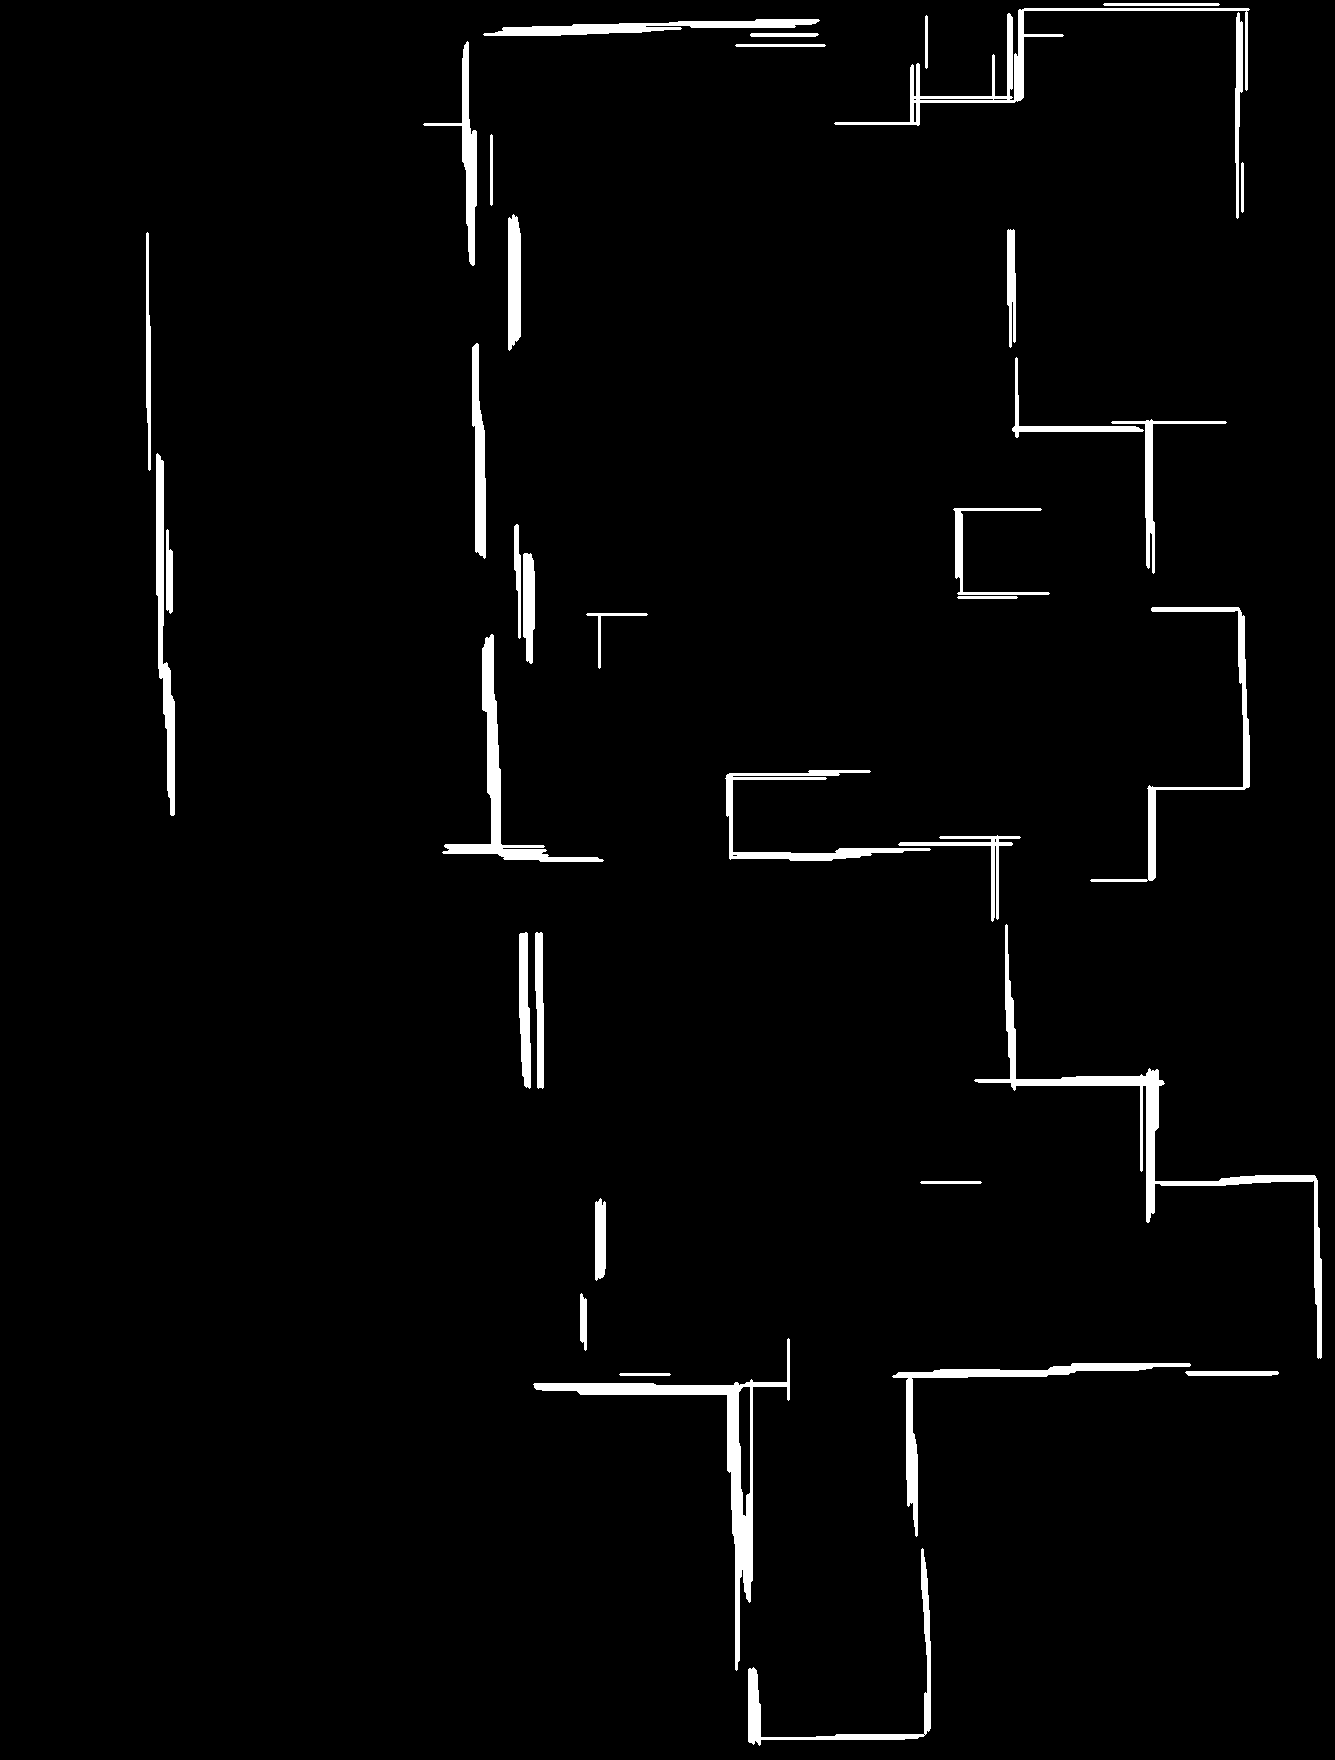
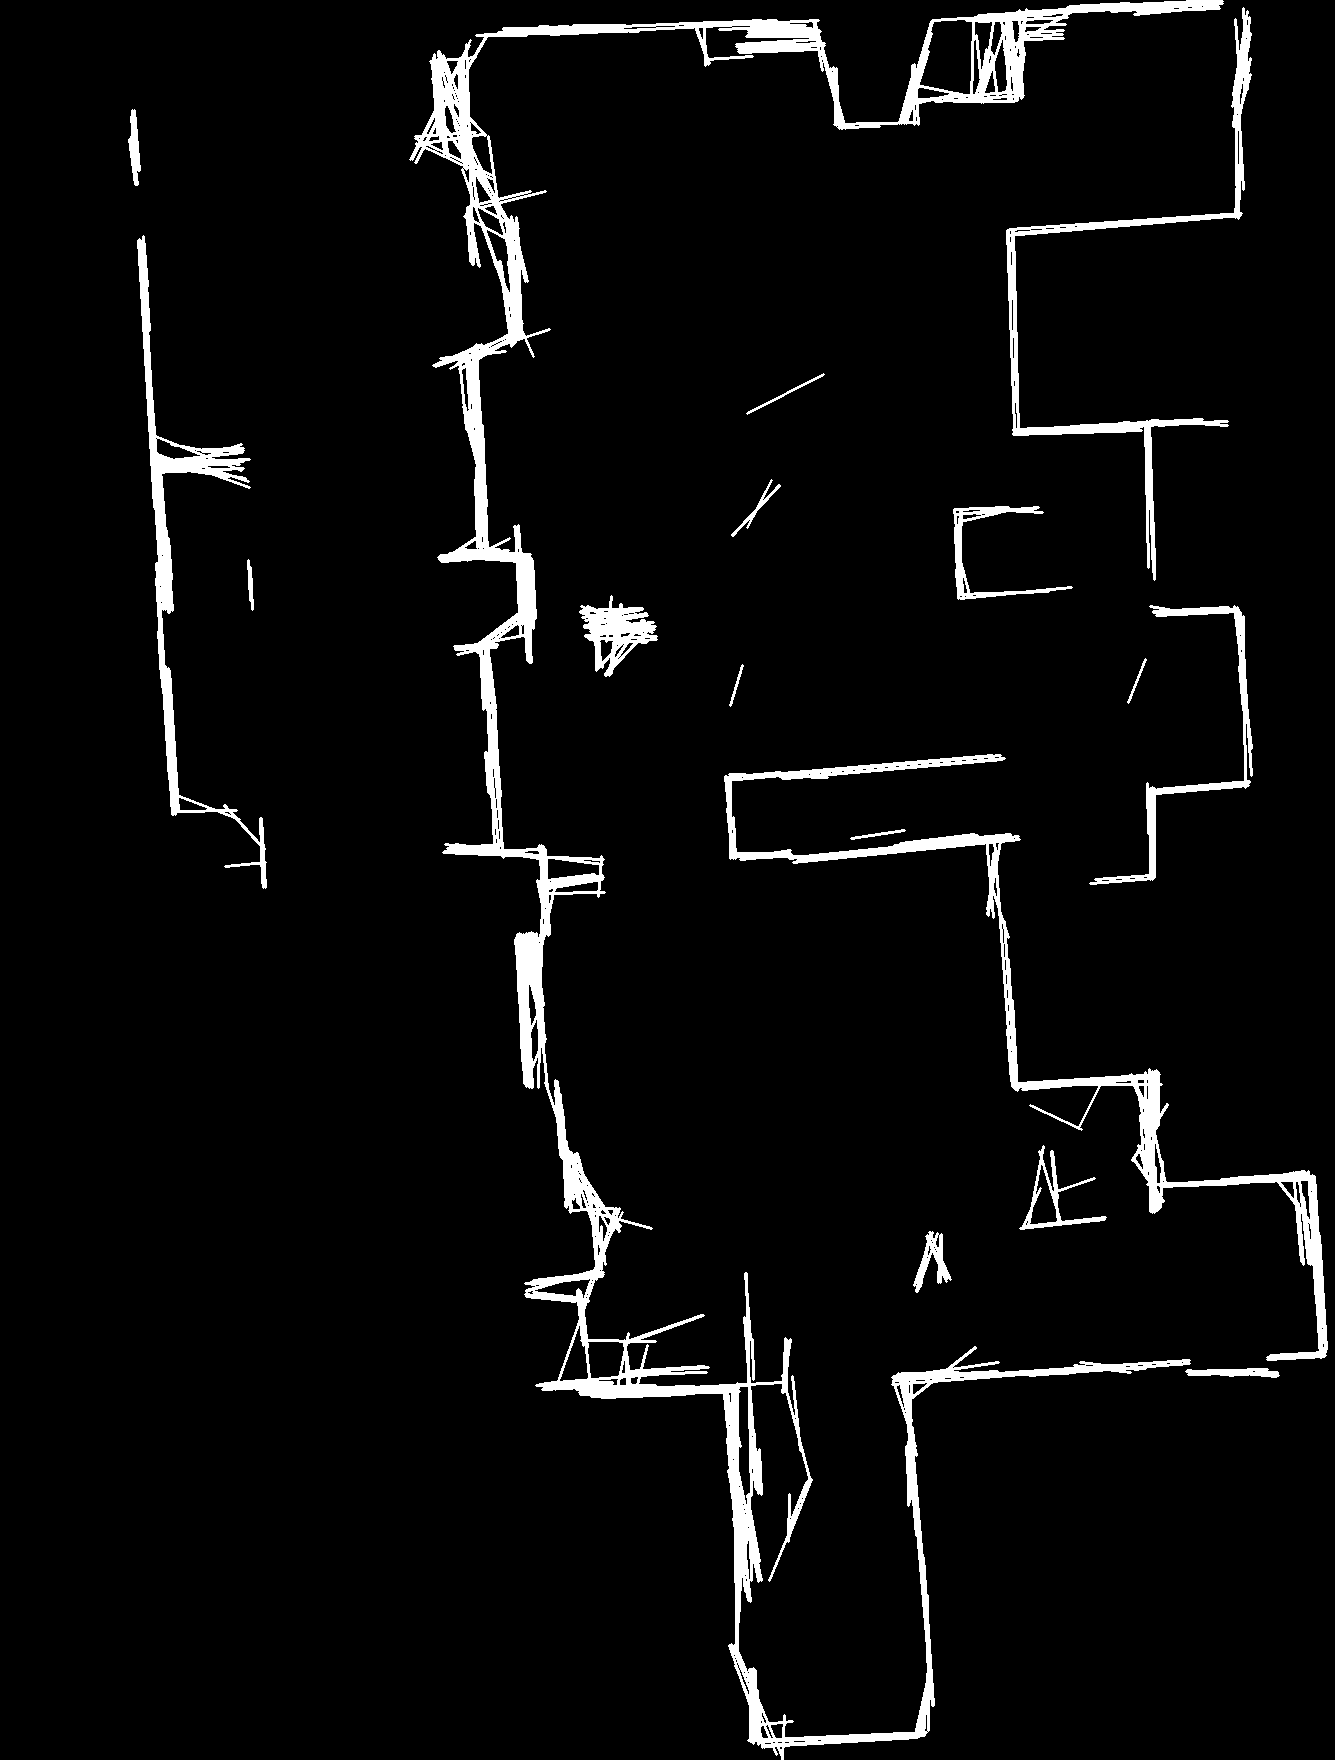
error correction and improvement in main.py

diff --git a/main.py b/main.py
@@ -3,6 +3,7 @@ from src.utils import *
 from src.post_proc_slam import FloorPlanProcessor as SLAM
 import argparse
 import os
+import sys
 
 def parse_arguments():
     parser = argparse.ArgumentParser(description='Post-process SLAM output')
@@ -11,7 +12,7 @@ def parse_arguments():
     parser.add_argument('--output_dir', type=str, required=True, help='Path to the output directory')
     parser.add_argument('--output_format', type=str, choices=['png', 'jpg'], required=True, help='Output image format (png, jpg)')
     parser.add_argument('--vector_format', type=str, choices=['yes', 'no'], required=True, help='Generate vector format (yes/no)')
-    parser.add_argument('--vector_choice', type=str, choices=['svg', 'json', 'dxf'], help='Choice of vector format (svg, json, dxf)')
+    parser.add_argument('--vector_choice', type=str, choices=['svg', 'json', 'dxf'], help='Choice of vector format (svg, json, dxf)', required='--vector_format' in sys.argv and 'yes' in sys.argv)
     return parser.parse_args()
 
 
@@ -36,7 +37,7 @@ def main():
         )
 
         edges = slam.detect_edges(binary_image)
-        lines = slam.detect_lines(edges, metadata['resolution'])
+        lines = slam.detect_lines(edges)
         
         floor_plan = slam.draw_floor_plan(lines, image)
         

diff --git a/src/post_proc_slam.py b/src/post_proc_slam.py
@@ -9,7 +9,7 @@ class FloorPlanProcessor:
     def __init__(self):
         pass
 
-    def detect_edges(self, binary_image, low_threshold=100, high_threshold=200):
+    def detect_edges(self, binary_image, low_threshold=50, high_threshold=150):
         """Detects the edges in the images using the Canny edge detector.
 
         Args:

diff --git a/README.md b/README.md
@@ -61,6 +61,7 @@ pip install -r requirements.txt
                             --output_dir <output_directory> \
                             --output_format <png|jpg> \
                             --vector_format <yes|no> \
+                        <!-- Note: The `--vector_choice` option should only be specified if the `--vector_format` is selected as <yes> -->
                             --vector_choice <svg|json|dxf>
       ```
 
@@ -75,6 +76,12 @@ python main.py --image_dir ./data \
                       --output_format png \
                       --vector_format yes \
                       --vector_choice svg
+
+python main.py --image_dir ./data \
+                        --yaml_path ./data/room1.yaml \
+                        --output_dir ./output \
+                      --output_format png \
+                      --vector_format no
 ```
 
 ## Contact
